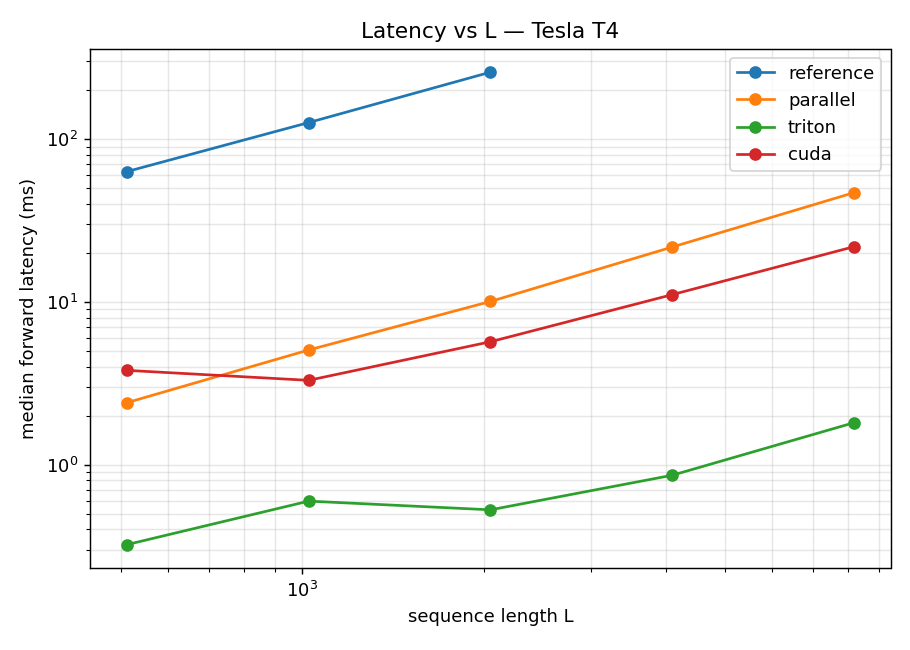
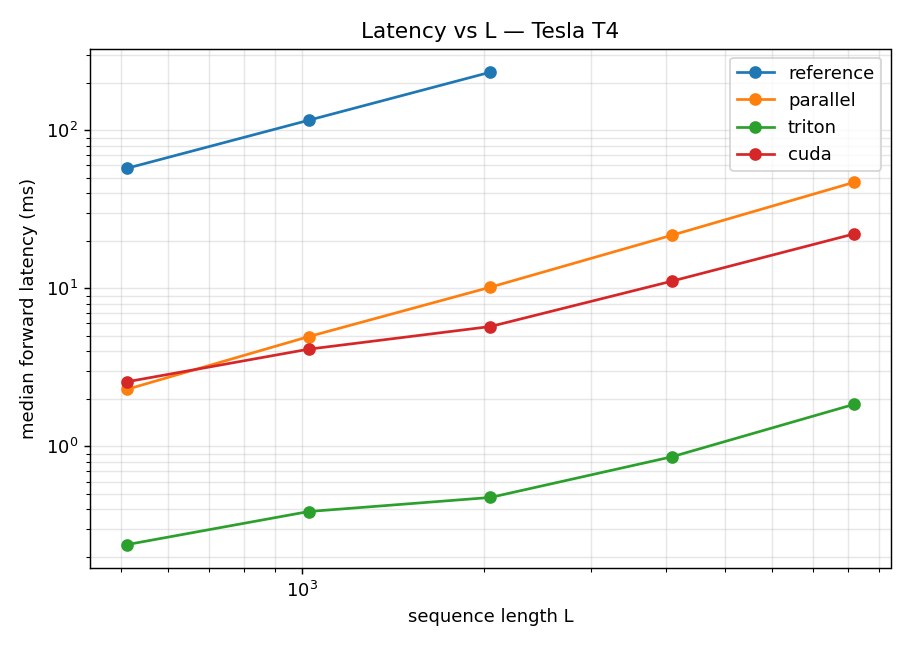
CUDA kernel verified on T4 (98 passed); update README results, benchmarks, and debugging note

diff --git a/README.md b/README.md
@@ -8,8 +8,8 @@ hand-written **CUDA** kernel (a Blelloch work-efficient prefix scan in shared me
 all targeting the free-tier Google Colab **NVIDIA T4 (Turing, sm_75)**.
 
 The guiding principle throughout is **honesty over hype**: every number in this document
-was measured on a real T4, the test suite is reported exactly as it ran (including a
-known CUDA bug), and no speedup is claimed that was not benchmarked.
+was measured on a real T4, the test suite is reported exactly as it ran, and no speedup is
+claimed that was not benchmarked.
 
 ---
 
@@ -20,15 +20,16 @@ known CUDA bug), and no speedup is claimed that was not benchmarked.
 | Sequential reference (ground truth) | Verified | analytic identities, CPU tests |
 | Pure-torch associative scan | Verified | matches reference to ~5e-15 (float64) |
 | Analytical backward pass | Verified | float64 `gradcheck` passes |
-| Triton kernel (forward + backward) | Verified on T4 | forward error 1.9e-05, grads ~1e-05 |
-| CUDA forward (Blelloch scan) | Known issue | correctness bug in the forward scan |
-| CUDA backward (reverse scan) | Partially verified | input grads correct; state-dependent grads blocked by the forward bug |
+| Triton kernel (forward + backward) | Verified on T4 | forward error 9.5e-06, grads ~1e-05 |
+| CUDA forward (Blelloch scan) | Verified on T4 | forward error 9.5e-06 vs the reference |
+| CUDA backward (reverse scan) | Verified on T4 | all gradients match the reference to ~1e-05 |
 | Memory benchmark (linear vs quadratic) | Verified on T4 | see [Benchmarks](#benchmarks) |
 | Latency benchmark | Verified on T4 | Triton up to ~490x over the reference |
 
-**Recommended GPU path: the Triton kernel.** It passes every correctness test on the T4.
-The CUDA kernel compiles and runs, but its forward scan currently produces an incorrect
-hidden state; details and root cause are in [Known Issues](#known-issues-and-limitations).
+Full test suite on the T4: **98 passed, 0 failed.** Both GPU kernels (Triton and CUDA)
+match the sequential reference on the forward pass and on every gradient. The Triton
+kernel is the fastest path; the CUDA kernel is correct and is the project's headline
+hand-written artifact (a Blelloch work-efficient scan in shared memory).
 
 ---
 
@@ -53,17 +54,17 @@ hidden state; details and root cause are in [Known Issues](#known-issues-and-lim
 ## Results at a Glance
 
 Measured on Google Colab, **NVIDIA Tesla T4 (sm_75, 15.6 GB)**, `torch 2.11.0+cu128`,
-`triton 3.6.0`. CUDA extension JIT-compiled for `sm_75` in 138.5 seconds.
+`triton 3.6.0`. CUDA extension JIT-compiled for `sm_75` in about 133 seconds.
 
 | Metric | Result |
 |---|---|
-| Backward correctness | float64 `gradcheck` passes; Triton gradients match the analytical reference to ~1e-05 |
-| Triton forward accuracy (T4, fp32) | maximum error 1.9e-05 vs the sequential reference |
-| Test suite on T4 | 90 passed, 3 failed (the 3 failures are the CUDA forward tests) |
+| Backward correctness | float64 `gradcheck` passes; Triton and CUDA gradients match the analytical reference to ~1e-05 |
+| Forward accuracy (T4, fp32) | maximum error 9.5e-06 for both the Triton and CUDA kernels vs the sequential reference |
+| Test suite on T4 | 98 passed, 0 failed |
 | Memory scaling | linear in sequence length; attention runs out of memory at L = 65,536 while the scan still runs at L = 100,000 |
 | Memory advantage at L = 16,384 | 658 MB (scan) vs 13,464 MB (attention), about 20x less |
-| Latency (Triton vs reference, L = 2,048) | 0.53 ms vs 257.8 ms, about 490x faster |
-| Latency (Triton vs pure-torch scan, L = 8,192) | 1.81 ms vs 46.9 ms, about 26x faster |
+| Latency (Triton vs reference, L = 2,048) | 0.48 ms vs 233.4 ms, about 490x faster |
+| Latency (Triton vs pure-torch scan, L = 8,192) | 1.85 ms vs 46.9 ms, about 25x faster |
 
 ---
 
@@ -122,7 +123,7 @@ flowchart LR
     PAR["Pure-torch<br/>associative scan"]
     BWD["Analytical backward<br/>float64 gradcheck"]
     TRI["Triton kernel<br/>verified on T4"]
-    CUDA["CUDA kernel<br/>forward bug, under fix"]
+    CUDA["CUDA kernel<br/>verified on T4"]
 
     REF -->|allclose 5e-15| PAR
     REF --> BWD
@@ -131,7 +132,7 @@ flowchart LR
     BWD -->|ported math| CUDA
 
     style TRI fill:#d6f5d6,stroke:#2e7d32
-    style CUDA fill:#fde0e0,stroke:#c62828
+    style CUDA fill:#d6f5d6,stroke:#2e7d32
 ```
 
 The pure-torch associative scan lives in
@@ -278,35 +279,53 @@ non-power-of-two length (which catches off-by-one errors in the reverse scan), b
 and without the skip connection. The analytical gradients also match autograd of the
 independent pure-torch scan to roughly 1e-14 on every input.
 
-### Triton kernel on the T4
+### GPU kernels on the T4
 
-Direct comparison against the sequential reference at `B=2, L=256, D=32, N=16`, fp32:
+Direct comparison against the sequential reference at `B=2, L=256, D=32, N=16`, fp32.
+Maximum absolute error per quantity:
 
-| Quantity | Maximum error |
-|---|---|
-| Forward output | 1.9e-05 |
-| Gradient `dx` | 1.9e-05 |
-| Gradient `ddelta` | 2.3e-05 |
-| Gradient `dA` | 1.3e-03 |
-| Gradient `dB` | 2.2e-05 |
-| Gradient `dC` | 1.4e-05 |
-| Gradient `dD` | 1.6e-05 |
+| Quantity | Triton | CUDA |
+|---|---|---|
+| Forward output | 9.5e-06 | 9.5e-06 |
+| Gradient `dx` | 2.3e-05 | 1.9e-05 |
+| Gradient `ddelta` | 1.9e-05 | 2.2e-05 |
+| Gradient `dA` | 1.2e-03 | 7.5e-04 |
+| Gradient `dB` | 1.5e-05 | 1.6e-05 |
+| Gradient `dC` | 1.3e-05 | 1.3e-05 |
+| Gradient `dD` | 1.9e-05 | 2.5e-05 |
 
-These are exactly the magnitudes expected from fp32 accumulation (the slightly larger `dA`
-error reflects its reduction over the full batch and length).
+Both kernels agree with the reference to the magnitudes expected from fp32 accumulation.
+The slightly larger `dA` error reflects its reduction over the full batch and length.
 
 ### Test suite
 
 Tolerances: fp32 `atol=1e-3`, fp16 `atol=2e-2`, float64 `gradcheck` `atol=1e-6, rtol=1e-4`.
 Edge cases cover `L` in {7, 64, 1000}, `N` in {8, 16}, `D` in {16, 64}, with and without
-the skip connection.
+the skip connection. The suite also includes a CPU simulation of the exact CUDA Blelloch
+algorithm ([`tests/test_blelloch_sim.py`](tests/test_blelloch_sim.py)), so a logic error in
+the scan is caught without a GPU.
 
 ```
-90 passed, 3 failed in 19.14s
+98 passed, 0 failed in 17.77s
 ```
 
-The three failures are all the **CUDA forward** tests; the Triton kernel, the analytical
-backward, the pure-torch scan, and every edge case pass. See [Known Issues](#known-issues-and-limitations).
+Every test passes: the reference, the pure-torch scan, the analytical backward, both GPU
+kernels (forward, backward, fp16), and all edge cases.
+
+### Engineering note: how the CUDA scan bug was found and fixed
+
+The first T4 run exposed a real bug: the CUDA forward produced a hidden state with errors
+around 35 to 40, while Triton was already correct. The fix followed from the failure
+signature rather than guesswork. Every gradient independent of the forward state
+(`dx`, `dB`, `dD`) was correct to about 1e-05, while everything derived from the saved
+state `h` (the forward output and `ddelta`, `dA`, `dC`) was wrong. That isolated the defect
+to the forward scan, not the backward. The cause was a swapped operand in the
+non-commutative combine of the Blelloch down-sweep: it computed
+`combine(left_subtree, parent_prefix)` instead of `combine(parent_prefix, left_subtree)`.
+Because the transition components multiply commutatively, the `a` term was right by
+accident and only the state term was wrong, which is precisely why `h` was corrupted while
+the transition-only gradients survived. The fix was validated first by a CPU simulation of
+the exact algorithm (now committed as a regression test), then confirmed on the T4.
 
 ---
 
@@ -344,19 +363,19 @@ Median forward latency over 30 timed iterations (CUDA events, with warmup), at
 
 | Sequence length L | Reference (ms) | Pure-torch scan (ms) | Triton (ms) | CUDA (ms) |
 |---:|---:|---:|---:|---:|
-| 512 | 63.13 | 2.40 | 0.32 | 3.79 |
-| 1,024 | 126.34 | 5.06 | 0.60 | 3.29 |
-| 2,048 | 257.84 | 10.05 | 0.53 | 5.68 |
-| 4,096 | (skipped) | 21.72 | 0.86 | 11.07 |
-| 8,192 | (skipped) | 46.90 | 1.81 | 21.83 |
+| 512 | 57.49 | 2.30 | 0.24 | 2.56 |
+| 1,024 | 115.78 | 4.95 | 0.39 | 4.12 |
+| 2,048 | 233.35 | 10.18 | 0.48 | 5.74 |
+| 4,096 | (skipped) | 21.73 | 0.86 | 11.13 |
+| 8,192 | (skipped) | 46.90 | 1.85 | 22.12 |
 
-The Triton kernel is roughly 200x to 490x faster than the sequential reference and about
-26x faster than the pure-torch scan at L = 8,192. The sequential reference is skipped
-beyond L = 2,048 because its Python loop dominates the wall clock.
-
-**Note on the CUDA column:** these timings are shown for completeness, but the CUDA kernel
-does not yet produce correct outputs (see below), so its latency is not a meaningful
-performance result at this time.
+The Triton kernel is roughly 240x to 490x faster than the sequential reference and about
+25x faster than the pure-torch scan at L = 8,192. The CUDA kernel is correct and is faster
+than the pure-torch scan at longer sequences (for example 22.1 ms versus 46.9 ms at
+L = 8,192), but is slower than Triton; its backward uses a straightforward per-lane
+sequential reverse scan, which leaves clear room for optimization (see
+[Limitations](#known-issues-and-limitations)). The sequential reference is skipped beyond
+L = 2,048 because its Python loop dominates the wall clock.
 
 **Note on the official mamba-ssm comparison:** the official `mamba-ssm` package did not
 install on the Colab runtime (`ModuleNotFoundError: No module named 'mamba_ssm'`), so no
@@ -367,16 +386,10 @@ keeping with the project's honesty principle.
 
 ## Known Issues and Limitations
 
-**CUDA forward scan correctness bug (open).** The CUDA kernel compiles for sm_75 and runs
-without crashing, but its forward Blelloch scan currently computes an incorrect hidden
-state (forward maximum error of about 35 to 40, versus 1.9e-05 for Triton). The failure
-signature is diagnostic: every gradient that does not depend on the forward state
-(`dx`, `dB`, `dD`) is correct to about 1e-05, while every quantity that does depend on it
-(the forward output, and `ddelta`, `dA`, `dC` through the saved state) is wrong. This
-isolates the defect to the forward scan in
-[`csrc/scan_fwd_kernel.cu`](csrc/scan_fwd_kernel.cu), most likely in the Blelloch
-up-sweep/down-sweep indexing or the cross-chunk carry, rather than in the backward kernel.
-The Triton kernel is the recommended GPU path until this is resolved.
+**CUDA backward performance.** The CUDA backward is correct but uses a straightforward
+per-lane sequential reverse scan rather than a tree-parallel reverse Blelloch scan. This is
+why the CUDA kernel, while faster than the pure-torch scan, trails the Triton kernel in the
+latency table. Parallelizing the reverse scan is the most promising next optimization.
 
 **No bf16 or FP8.** The T4 (sm_75) supports fp16 and fp32 only. The kernels take fp16 or
 fp32 input and accumulate in fp32.